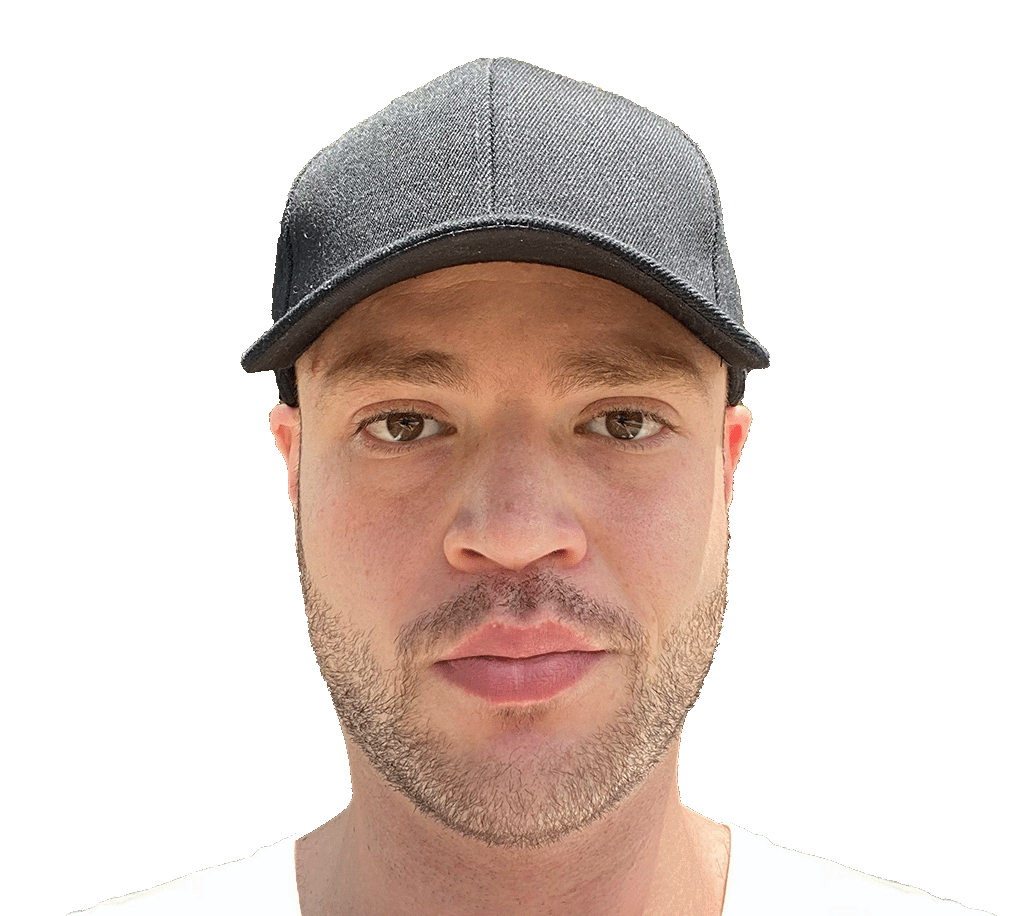
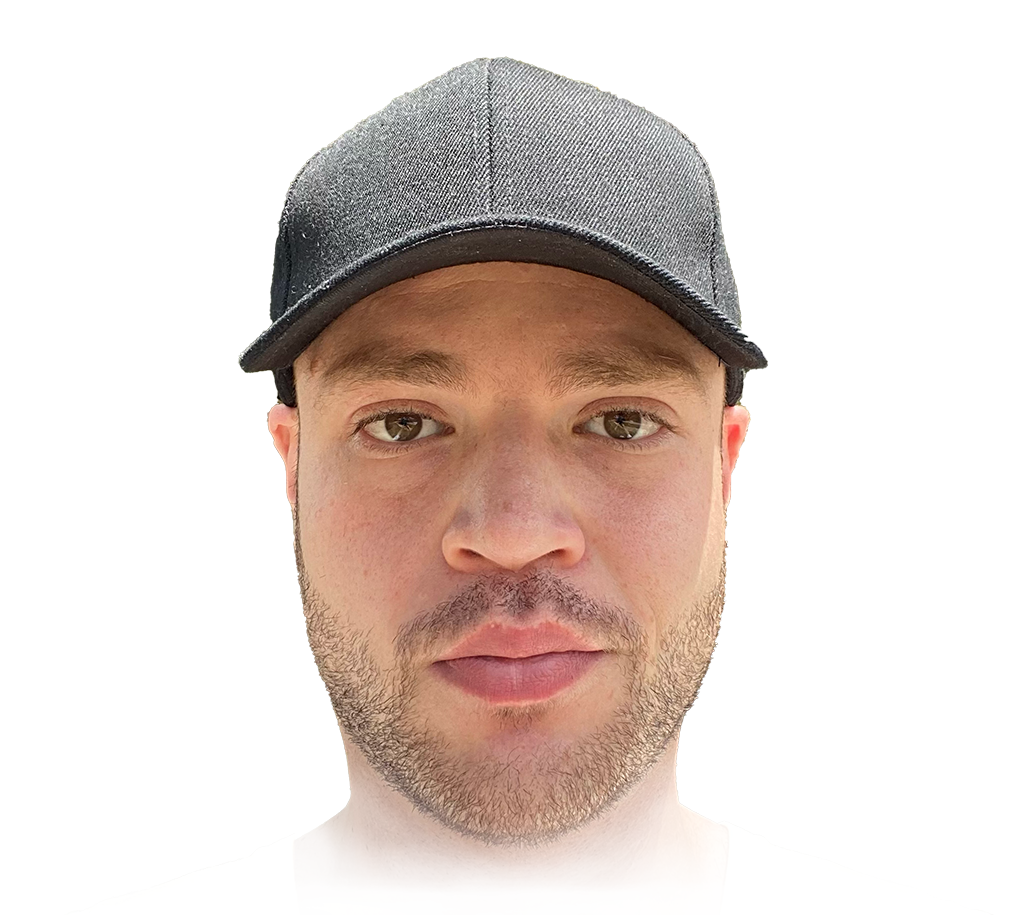
bug fixes and improvements

diff --git a/src/App.js b/src/App.js
@@ -1,31 +1,24 @@
 
 import React, { Component, useEffect, useRef } from 'react'
-import { Navigator } from './Components/Navigator'
 import colors from './colors'
 import LandingSection from './Components/Landing'
 import About from './Components/About'
-import Portfolio from './Components/Portfolio'
-import Blog from './Components/Blog'
+import Works from './Components/Works'
 import Contact from './Components/Contact'
-import Closer from './Components/Closer'
+
+// Unused components
+// import { Navigator } from './Components/Navigator'
+// import Blog from './Components/Blog'
+// import Closer from './Components/_Archived_/Closer'
+// import TestingDeployment from './Components/_Archived_/TestingDeployment'
+// import AirBadgeTable from './Components/_Archived_/AirBadgeTable'
 // import pageScrollerInterpreter, { scroll } from './mainScroller'
-import { useActor } from '@xstate/react'
-import TestingDeployment from './Components/TestingDeployment'
-import AirBadgeTable from './Components/AirBadgeTable'
-// import Portfolio from './Components/Portfolio Old'
-// window.history.scrollRestoration = 'auto'// 'manual, auto'
+
+// Unused functions 
+// import { useActor } from '@xstate/react'
+
 const App = () => {
-  const innerWidth = window.innerWidth
-  const innerHeight = window.innerHeight
-  const fullWidth = window.outerWidth
-  const fullHeight = window.outerHeight
-  const appWidth =  `${innerWidth}px`
-  const appHeight =  `${innerHeight}px`
-  // eslint-disable-next-line no-restricted-globals
-  const marginTopAndBottom = `${outerHeight - innerHeight}px`
-  // eslint-disable-next-line no-restricted-globals
-  const marginLeftAndRight = `${outerWidth - innerWidth}px`
-  console.log(appHeight)
+
   const appStyles = {
     // background: diraColors.diraBlack,
     color: colors.aRed
@@ -33,14 +26,6 @@ const App = () => {
 
   // const [state, send] = useActor(pageScrollerInterpreter)
   // const { scrollTop } = document.documentElement
-
-  // useEffect(() => {
-  //   // console.log(document.getElementById('landing'))
-  //   send({ type: 'SCROLL', section: 'landing' })
-  //   return () => {
-  //     // cleanup
-  //   }
-  // }, [/* run flags */])
 
   // useEffect(() => {
   //   if (state.value === 'idle') {
@@ -67,6 +52,7 @@ const App = () => {
   //     // cleanup
   //   }
   // }, [state.value])
+
   return (
     <div
       id="mySite"
@@ -75,10 +61,6 @@ const App = () => {
         position: 'absolute',
         top: '0px',
         left: '0px',
-        // width: appWidth,
-        // height: appHeight,
-        // marginTop: marginTopAndBottom,
-        // marginBottom: marginTopAndBottom,
         overflow: 'hidden',
         overflowY: 'scroll',
         width: '100vw',
@@ -105,7 +87,7 @@ const App = () => {
 
       <LandingSection />
       <About />
-      <Portfolio />
+      <Works />
       <Contact />
       
       {/* <Blog/> */}

diff --git a/src/Components/Landing/index.js b/src/Components/Landing/index.js
@@ -38,8 +38,8 @@ const LandingSection = () => {
       id="landing"
       style={{
         scrollSnapAlign: 'start',
-        width: '100vw',
-        height: '100vh',
+        width: '100%',
+        height: '100%',
         // background: colors.aRed as unknown as string,
         // padding: '50px',
         boxSizing: 'border-box',
@@ -62,8 +62,8 @@ const LandingSection = () => {
         ref={iconsRef}
         style={{
           position: 'absolute',
-          width: '100vw',
-          height: '100vh',
+          width: '100%',
+          height: '100%',
           bottom: 0,
           zIndex: 1,
           pointerEvents: 'none',
@@ -256,18 +256,30 @@ const LandingSection = () => {
           </svg>
       </div>
 
-      <img id="landingPortrait" 
+      <div id="landingPortrait" 
+      
+      style={{
+        backgroundImage: `url(${landingPortrait})`,
+        backgroundRepeat:'no-repeat',
+        backgroundPosition:'center',
+        backgroundSize:'contain',
+        width:"100%",
+        height: '100%',
+        position: 'absolute',
+        zIndex: 2,
+        bottom: 0,
+        opacity: 0.6,
+        display:"block",
+        userSelect:'none',
+        pointerEvents:'none'
+      }}
+      >
+        
+      </div>
+
+      {/* <img id="landingPortrait" 
         src={landingPortrait}
-        style={{
-          // width:"100%",
-          height: '90%',
-          position: 'absolute',
-          zIndex: 2,
-          bottom: 0,
-          opacity: 0.5,
-          display:"block"
-        }}
-      />
+      /> */}
       <div id="nameAndTitle"
         style={{
           // color: 'darkgray',

diff --git a/src/Components/Works/index.js b/src/Components/Works/index.js
@@ -14,7 +14,7 @@ import leftImage from '../../assets/left.svg'
 // gsap.registerPlugin(MotionPathPlugin, MotionPathHelper, CustomEase, DrawSVGPlugin, MotionPathPlugin)
 // import { TikTok } from 'react-tiktok'
 
-const Portfolio = () => {
+const Works = () => {
   const appStyles = { color: 'blue' }
   const pStyles = { margin: '2vmin',fontFamily: 'Spartan, sans-serif' }
   const portfolioItemStyles = {
@@ -68,7 +68,8 @@ const Portfolio = () => {
         scrollSnapAlign: 'start',
         width: '100%',
         height: '100%',
-        padding: '5vmin',
+        padding: '10vh 5vw',
+
         boxSizing: 'border-box',
         boxShadow: 'rgb(155 155 155 / 56%) 0px 0px 15px 0px inset',
         display: 'flex',
@@ -83,7 +84,7 @@ const Portfolio = () => {
             fontFamily: 'Spartan, sans-serif',
           }}
         >
-          Work
+          Works
         </div>   
         <div id="portfolioContainer"
         // scrollable sideways
@@ -270,4 +271,4 @@ const Portfolio = () => {
   )
 }
 
-export default Portfolio
+export default Works

diff --git a/src/Components/Contact/index.js b/src/Components/Contact/index.js
@@ -16,8 +16,8 @@ const Contact = () => {
       id="contact"
       style={{
         scrollSnapAlign: 'start',
-        width: '100vw',
-        height: '100vh',
+        width: '100%',
+        height: '100%',
         padding: '5vmin',
         boxSizing: 'border-box',
         margin: 0,
@@ -28,7 +28,7 @@ const Contact = () => {
         flex: 1,
         whiteSpace: 'nowrap',
         textAlign: 'center',
-        padding: '2vmin',
+        padding: '10vh 5vw',
         borderRadius: '10px',
         boxShadow: 'rgb(255 255 255 / 56%) 0px 0px 15px 0px',
         width: '100%',

diff --git a/src/Components/_Archived_/TetrisLogo.js b/src/Components/_Archived_/TetrisLogo.js
@@ -1,6 +1,6 @@
 
 import React, { Component, useEffect, useRef } from 'react'
-import colors from './colors'
+import colors from '../../colors'
 
 const Logo = ({ dimensions }) => {
   console.log('nav working')
@@ -14,7 +14,6 @@ const Logo = ({ dimensions }) => {
 
   console.log(dimensions)
   return (
-
     <svg xmlns="http://www.w3.org/2000/svg"
       style={{
         ...dimensions,

diff --git a/src/Components/About/index.js b/src/Components/About/index.js
@@ -23,7 +23,7 @@ const About = () => {
         scrollSnapAlign: 'start',
         width: '100%',
         height: '100%',
-        padding: '5vmin',
+        padding: '10vh 5vw',
         boxSizing: 'border-box',
         boxShadow: 'rgb(155 155 155 / 56%) 0px 0px 15px 0px inset',
         display: 'flex',

diff --git a/src/Components/_Archived_/Closer/index.js b/src/Components/_Archived_/Closer/index.js
@@ -1,5 +1,5 @@
 import React, { Component, useEffect, useRef } from 'react'
-import colors from '../../colors'
+import colors from '../../../colors'
 import backgroundImage from '../../assets/flyingCar.svg'
 
 // import Logo from '../../Logo'

diff --git a/src/Components/_Archived_/TestingDeployment/index.js b/src/Components/_Archived_/TestingDeployment/index.js
@@ -1,5 +1,5 @@
 import React, { Component, useEffect, useRef, useState } from 'react'
-import colors from '../../colors'
+import colors from '../../../colors'
 import AirBadgeTable from '../AirBadgeTable'
 
 const TestingDeployment = () => {
